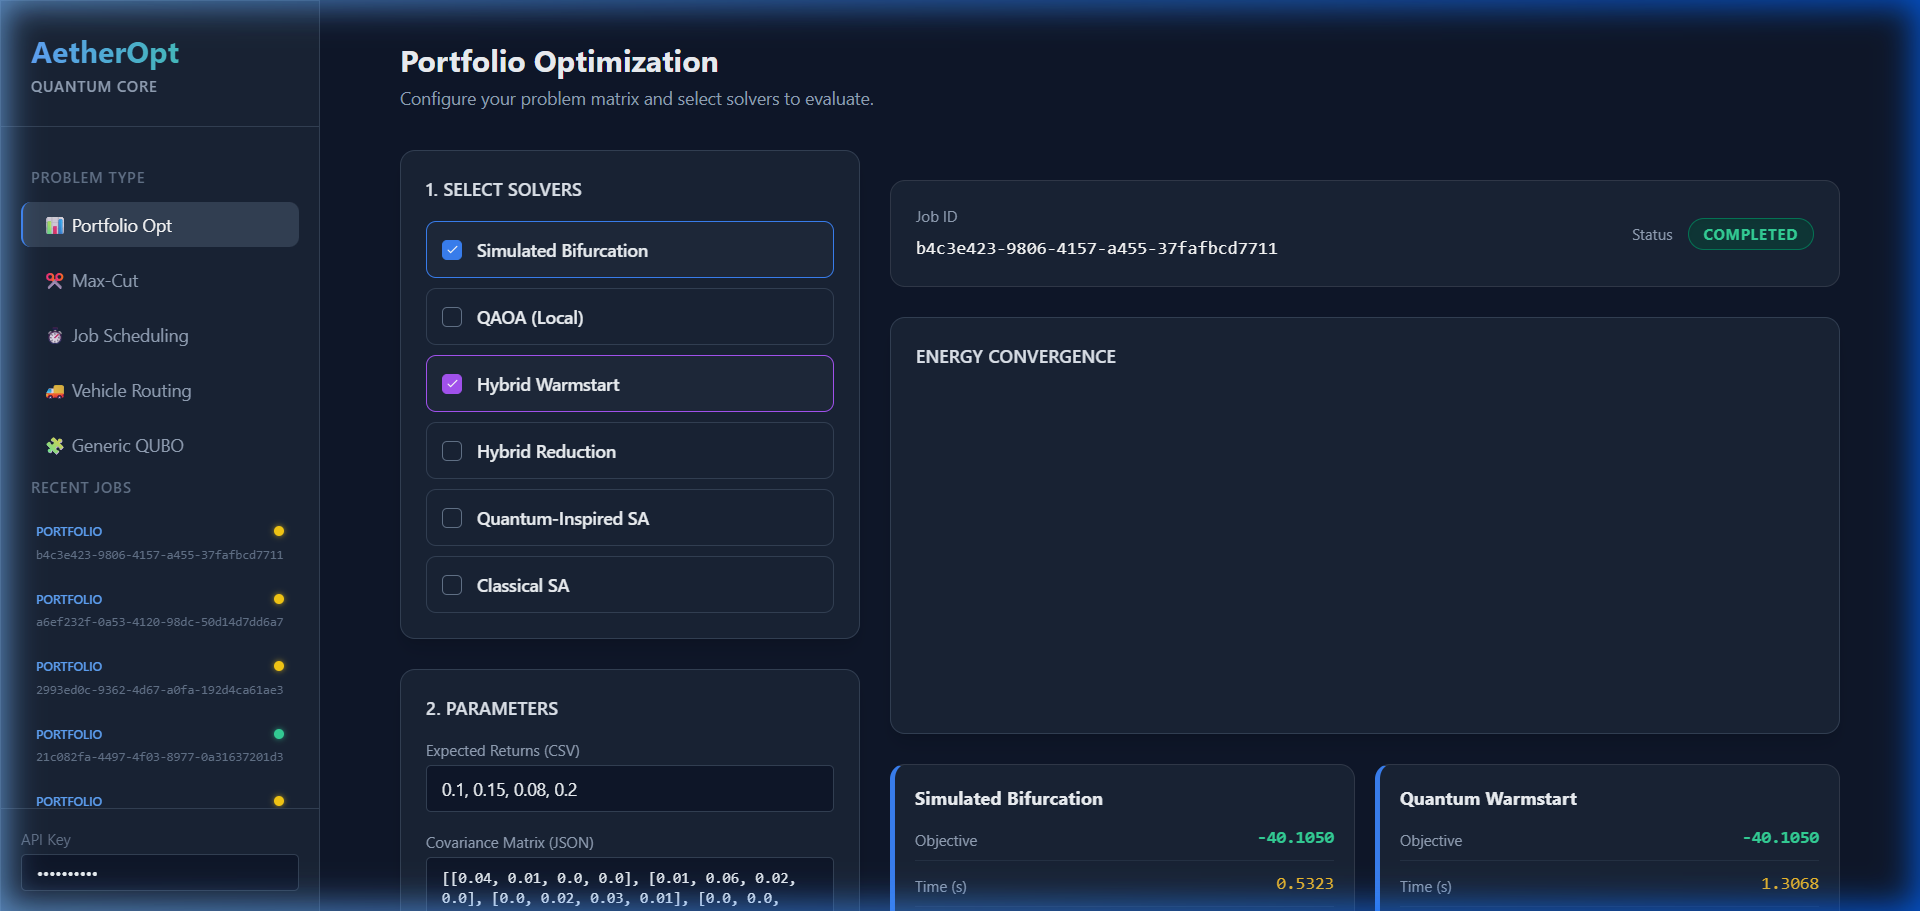
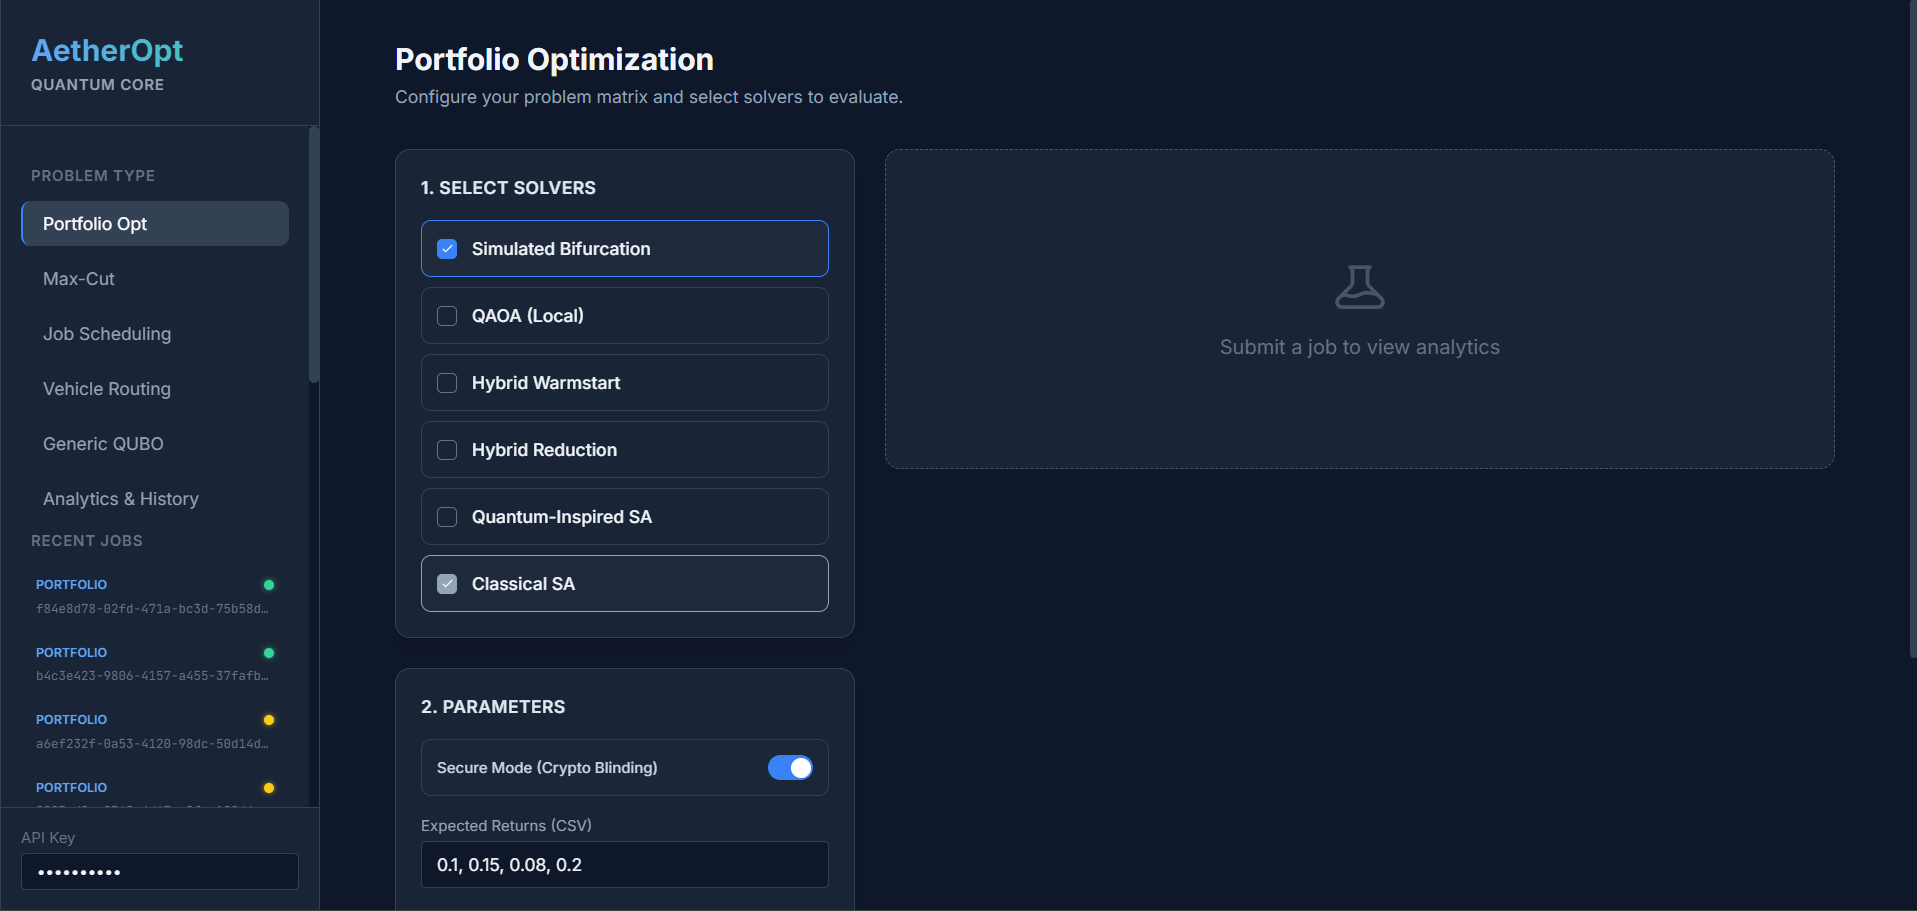
Remove emojis from README, update dashboard screenshot with fresh design

diff --git a/README.md b/README.md
@@ -1,13 +1,13 @@
 <div align="center">
-  <a href="README.md"><b>📖 README</b></a> &nbsp; | &nbsp;
-  <a href="architecture.md"><b>🏗 Architecture</b></a> &nbsp; | &nbsp;
-  <a href="LICENSE.md"><b>⚖ License</b></a>
+  <a href="README.md"><b>README</b></a> &nbsp; | &nbsp;
+  <a href="architecture.md"><b>Architecture</b></a> &nbsp; | &nbsp;
+  <a href="LICENSE.md"><b>License</b></a>
 </div>
 
 <br/>
 
 <div align="center">
-  <h1>AetherOpt 🌌</h1>
+  <h1>AetherOpt</h1>
   <p><b>Production-Grade Quantum-Inspired Optimization Platform</b></p>
   <img src="https://img.shields.io/badge/FastAPI-005571?style=for-the-badge&logo=fastapi" alt="FastAPI" />
   <img src="https://img.shields.io/badge/Python-3776AB?style=for-the-badge&logo=python&logoColor=white" alt="Python" />
@@ -22,29 +22,29 @@ It is designed with stability, asynchronous execution, and rigorous data validat
 
 ---
 
-## 📸 Interactive Web Interface
+## Interactive Web Interface
 
 ![AetherOpt Results](assets/ui_screenshot.png)
 
 ---
 
-## 🚀 Features
+## Features
 
 - **Asynchronous Execution:** Safely run long combinatorial solves in the background with a thread-safe SQLAlchemy integration.
 - **Strict Data Validation:** Comprehensive Pydantic models for all problem domains (Portfolio, Max-Cut, Routing, Scheduling) ensuring fail-fast validation. Support for multi-objective & PUBO schemas.
 - **Multiple Solvers:**
-  - 🌊 **Simulated Bifurcation:** High-performance quantum-inspired solver for dense QUBOs.
-  - ⚛ **QAOA (Local):** Local quantum circuit simulation for Exact QAOA algorithms.
-  - 🔗 **Hybrid Quantum-Classical Pipeline:** Seed classical refinement (like SA or HiGHS) with states found by quantum/quantum-inspired solvers.
-  - ❄ **Correlation Reduction:** Freeze variables dynamically based on spin correlation to reduce search space.
-  - 🔮 **Quantum-Inspired SA:** Simulated annealing enhanced with barrier tunneling probability bounds.
-  - ⚙ **Classical SA & HiGHS:** Fast, traditional baselines and exact MIP solving.
+  - **Simulated Bifurcation:** High-performance quantum-inspired solver for dense QUBOs.
+  - **QAOA (Local):** Local quantum circuit simulation for Exact QAOA algorithms.
+  - **Hybrid Quantum-Classical Pipeline:** Seed classical refinement (like SA or HiGHS) with states found by quantum/quantum-inspired solvers.
+  - **Correlation Reduction:** Freeze variables dynamically based on spin correlation to reduce search space.
+  - **Quantum-Inspired SA:** Simulated annealing enhanced with barrier tunneling probability bounds.
+  - **Classical SA & HiGHS:** Fast, traditional baselines and exact MIP solving.
 - **Cryptography Layer (Secure QUBO):** Submit blind optimization jobs. Matrix coefficients are scalar-blinded before reaching the solver to ensure mathematical privacy.
 - **Data Science Layer:** Automated experiment tracking (SQLite/MLflow concepts) to save run configurations, energies, and metadata across experiments.
 
 ---
 
-## 🛠 Getting Started
+## Getting Started
 
 ### 1. Installation
 
@@ -67,7 +67,7 @@ Visit [http://localhost:8000](http://localhost:8000) to access the interactive w
 
 ---
 
-## 📚 Interactive API Usage
+## Interactive API Usage
 
 > [!NOTE] 
 > The `X-API-Key` is configured to `secret_key` for local development by default. When deploying to production, enforce a secure token by setting the `API_KEY` environment variable and changing `AETHEROPT_ENV=production`.
@@ -114,12 +114,12 @@ curl -H 'X-API-Key: secret_key' http://localhost:8000/api/v1/results/{YOUR_JOB_I
 
 ---
 
-## 🏗 Architecture
+## Architecture
 
 Curious about how AetherOpt processes jobs and maps domains to QUBOs with crypto layers? 
-👉 **Check out the [Architecture Overview](architecture.md).**
+**Check out the [Architecture Overview](architecture.md).**
 
-## 🧪 Testing
+## Testing
 
 Execute the comprehensive test suite locally:
 
